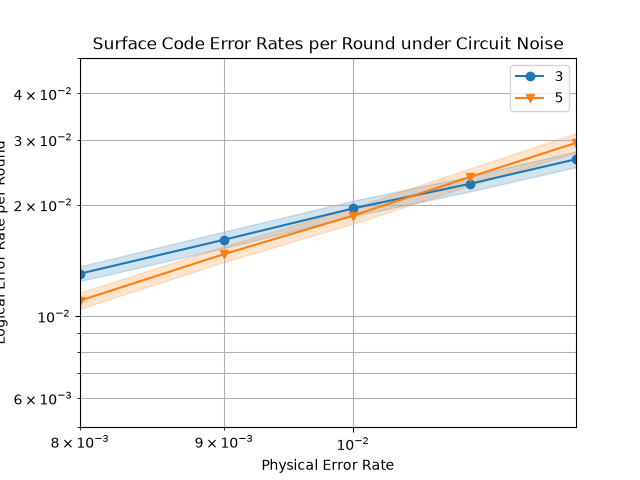
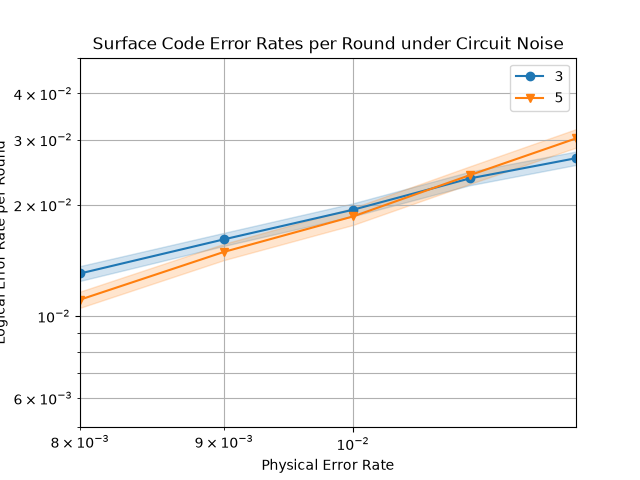
sincronizar version local

Changed region(s): [[0.125, 0.25, 0.9062, 0.6562]]

diff --git a/project.py b/project.py
@@ -2,24 +2,37 @@ from dataset import *
 
 NUM_SHOTS = 10_000_000
 
+DECODERS = {"PyMatching": pymatching_decoder}
+
+def evaluate(circuit: stim.Circuit, test_start: int, filename: str, decoder: str):
+    detection_events, observable_flips = load_dataset(filename)
+    
+    test_obs = observable_flips[test_start:]
+    test_events = detection_events[test_start:]
+    n_test = len(test_obs)
+    
+    predictions, time = DECODERS[decoder](circuit, test_events)
+    errors = count_logical_errors(test_obs, predictions)
+
+    error_rate = errors / n_test
+    uncertainty = (error_rate * (1 - error_rate) / n_test) ** 0.5
+
+    return print_eval(n_test, error_rate, uncertainty, test_obs.mean(), time, decoder)
+ 
+def print_eval(n_test: int, error_rate: float, uncertainty: float, flip_rate: float, pym_time: float, decoder: str) -> None:
+    print(f"Config: p = {9e-3}, d = 3, r = 3, test shots = {n_test:,}")
+    print(f"Detectors per shot: {circuit.num_detectors}")
+    print(f"Fraction of flips in test: {flip_rate:.4f}")
+    print(f"{decoder} logical error rate: {error_rate:.4%} ± {uncertainty:.4%}")
+    print(f"{decoder} time per shot: {pym_time / n_test * 1e6:.2f} µs")
+
+
 if __name__ == '__main__':
     circuit = make_circuit(p=9*10**-3, d=3, r=3)
     detection_events, observable_flips = make_dataset(circuit, num_shots=NUM_SHOTS)
     save_dataset(detection_events, observable_flips, 'data.npz')
     
     test_start = int(NUM_SHOTS * 0.9)
-    test_obs = observable_flips[test_start:]
-    test_events = detection_events[test_start:]
-    n_test = len(test_obs)
+    evaluate(circuit, test_start, 'data.npz', "PyMatching")
     
-    predictions, pymatching_time = pymatching_decoder(circuit, test_events)
-    errors = count_logical_errors(test_obs, predictions)
 
-    error_rate = errors / n_test
-    uncertainty = (error_rate * (1 - error_rate) / n_test) ** 0.5
-
-    print(f"Config: p = {9e-3}, d = 3, r = 3, test shots = {n_test:,}")
-    print(f"Detectors per shot: {circuit.num_detectors}")
-    print(f"Fraction of flips in test: {test_obs.mean():.4f}")
-    print(f"PyMatching logical error rate: {error_rate:.4%} ± {uncertainty:.4%}")
-    print(f"PyMatching time per shot: {pymatching_time / n_test * 1e6:.2f} µs")

diff --git a/README.md b/README.md
@@ -38,7 +38,13 @@ The d = 3 and d = 5 curves cross around p = 1 %, which is the expected threshold
 pip install stim pymatching sinter numpy matplotlib
 ```
 
-Then run the Phase 1 notebook.
+Then run proyect.py.
+
+## Baseline: Config: p = 0.009, d = 3, r = 3, test shots = 1,000,000
+Detectors per shot: 24
+Fraction of flips in test: 0.1717
+PyMatching logical error rate: 4.9502% ± 0.0217%
+PyMatching time per shot: 0.74 µs
 
 ## Next steps
 
